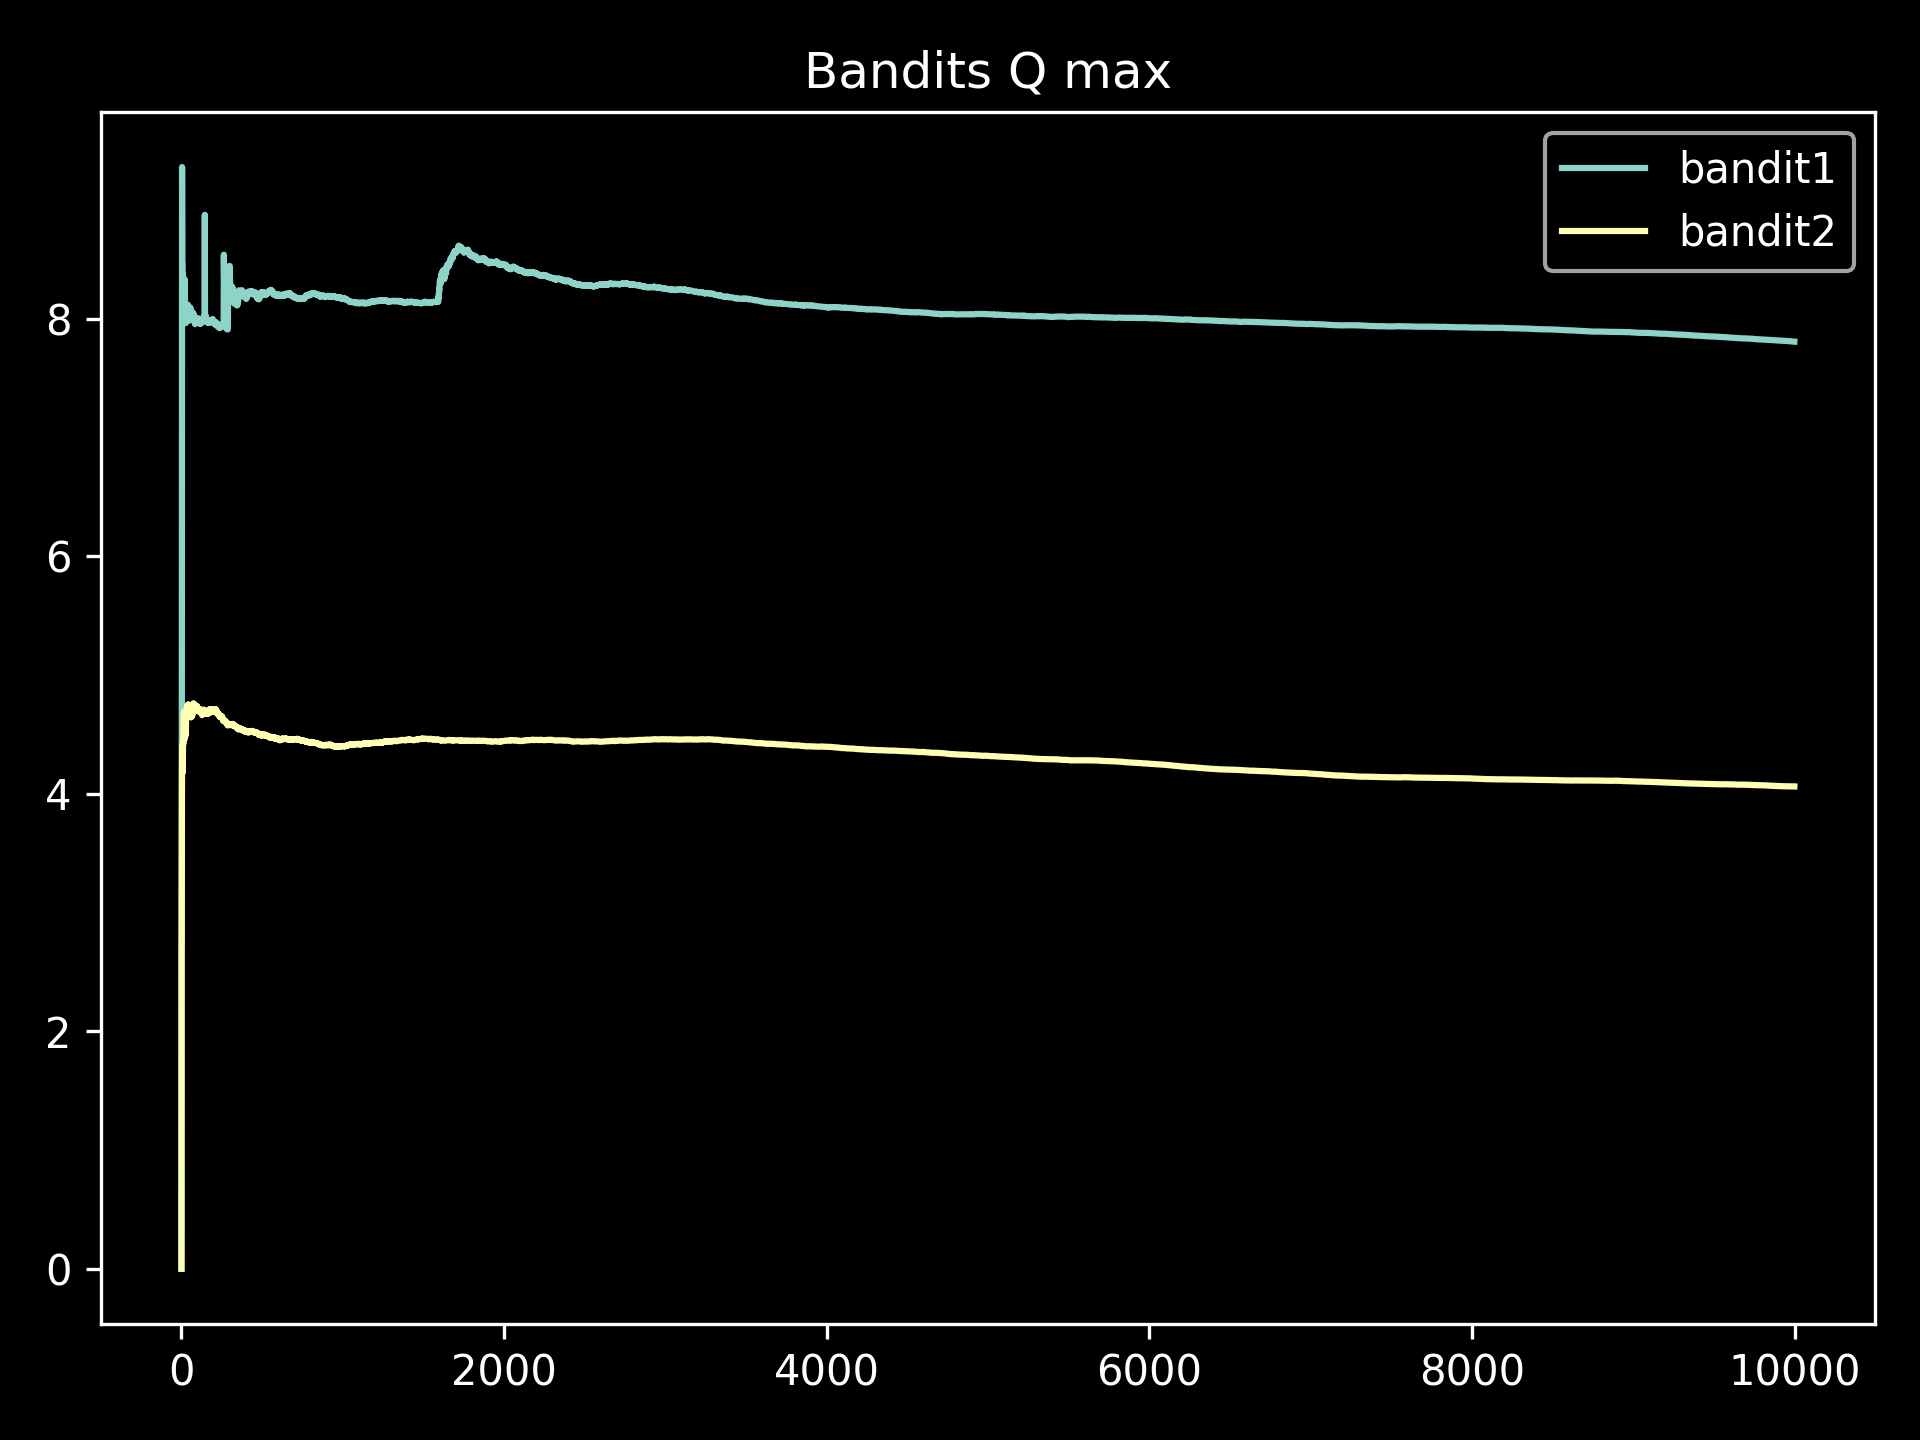
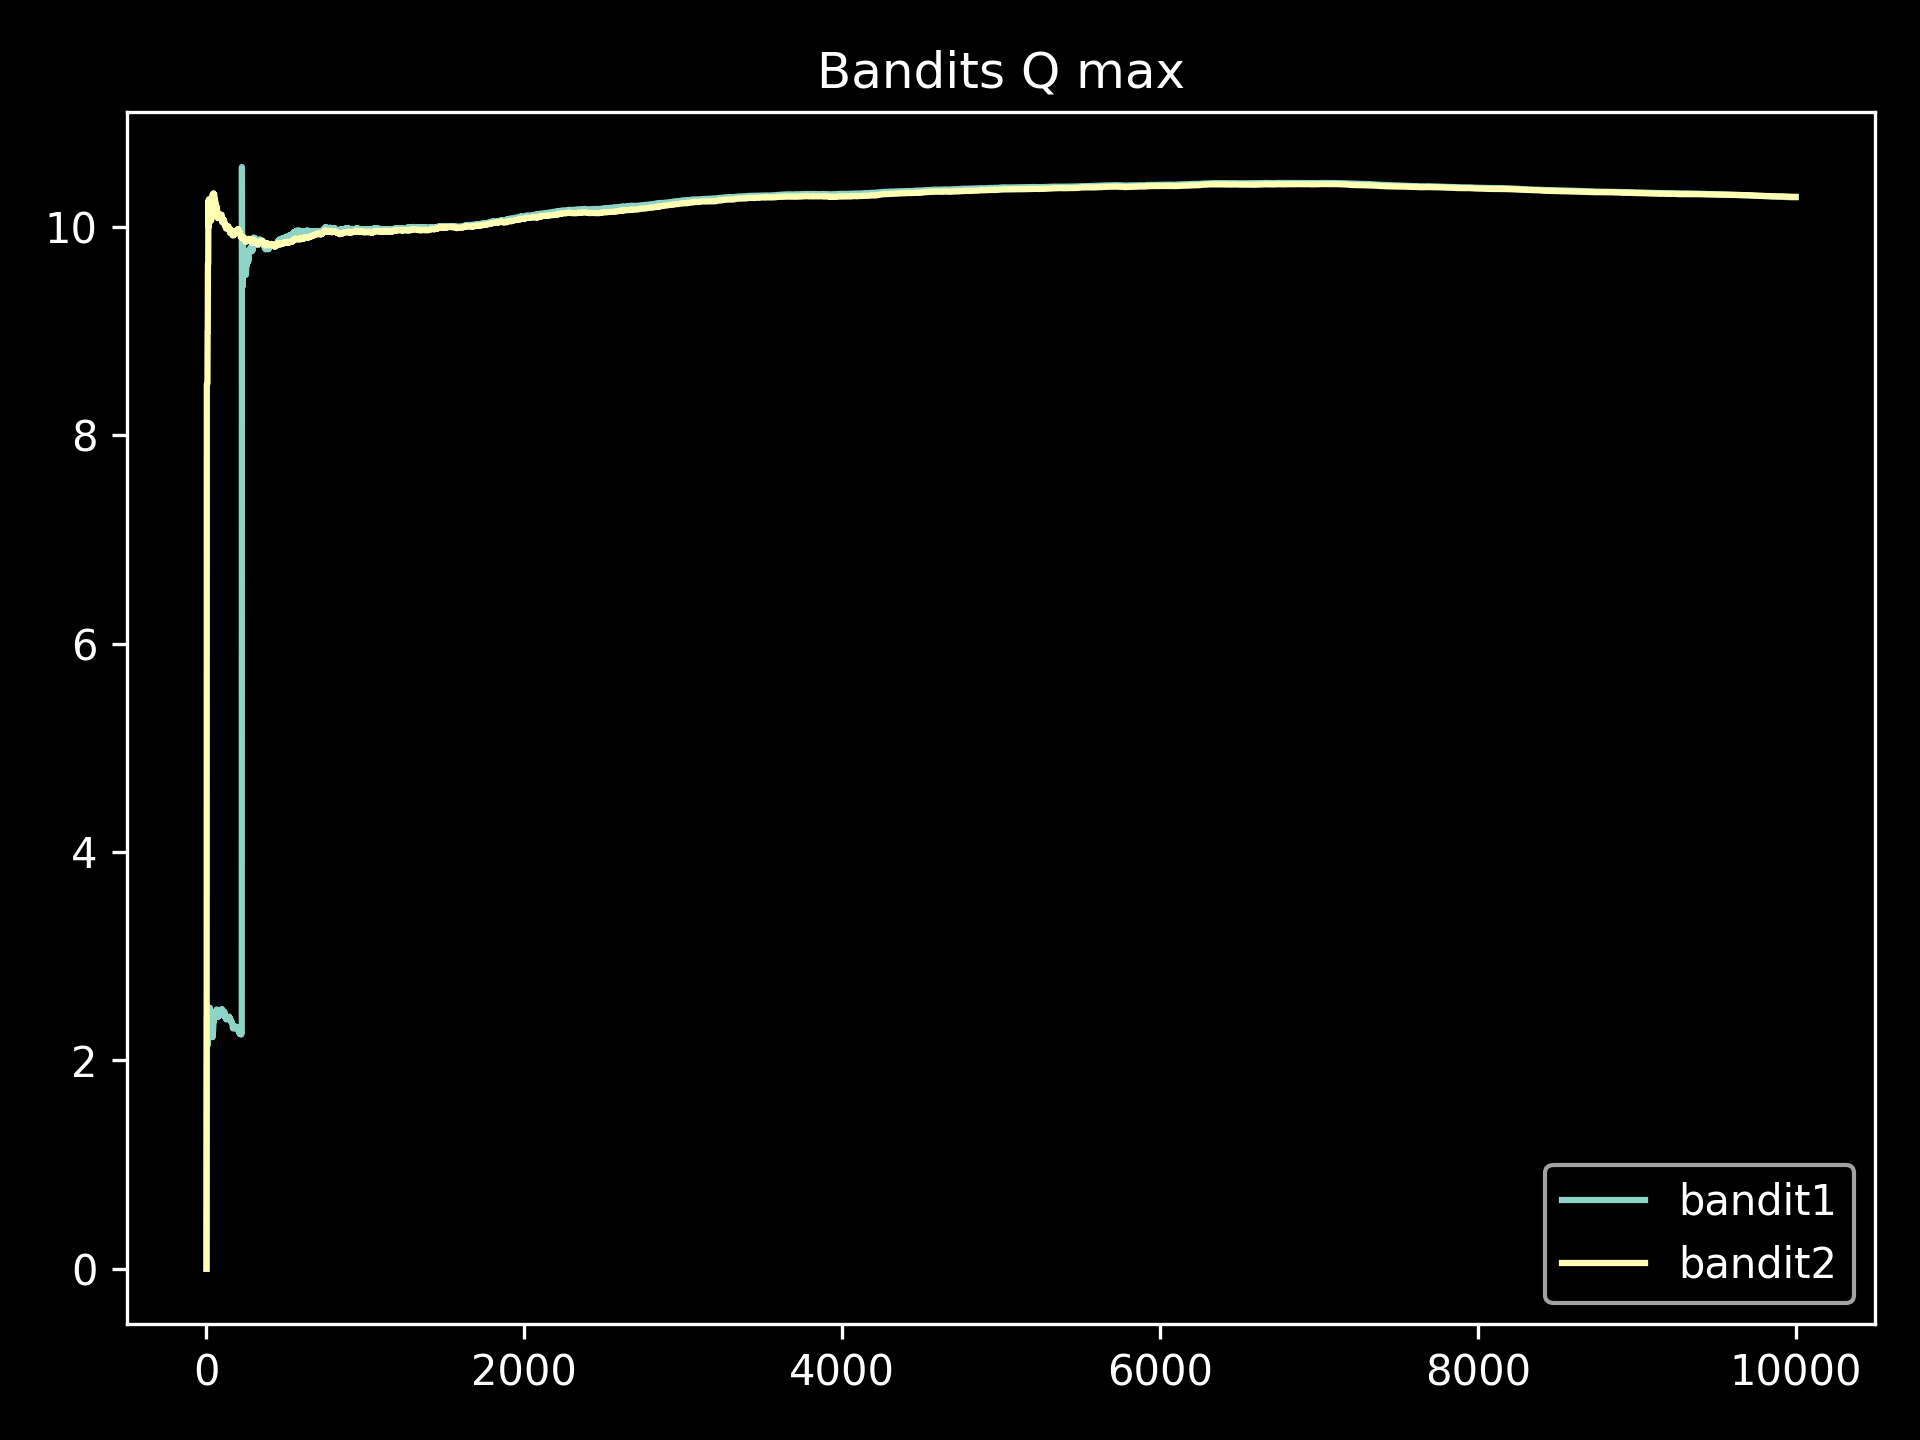
Monumental progress... need to implement constant step-size param math in still

diff --git a/src/CS6900/exercise_2_5.py b/src/CS6900/exercise_2_5.py
@@ -16,14 +16,24 @@ class Bandits:
 
     step = 0 # What time step we are on, this is shared by all instances of Bandits class
 
-    def __init__(self, n_arms, n_steps, epsilon, name):
+    def __init__(self, n_arms, n_steps, n_runs, epsilon, alpha, name):
         self.n_arms = n_arms
         self.n_steps = n_steps
         self.Q = np.zeros((n_arms, n_steps))
         self.N = np.zeros((n_arms, n_steps))
         self.epsilon = epsilon
+        self.alpha = alpha
+
         self.rewards_received = np.zeros(n_steps)
         self.name = name
+
+        # These variables are going to save all the Q values across the number
+        # of runs that we want. We are goind to shove Q into the page n_runs
+        # once a run. Average all these pages together to get average Q and
+        # N.
+        self.Q_global = np.zeros((n_arms,n_steps,n_runs))
+        self.N_global = np.zeros((n_arms,n_steps,n_runs))
+
 
     def sample_average_choose_action(self):
         random_float = np.random.random()
@@ -68,6 +78,28 @@ class Bandits:
             Q_max_arr[i] = np.max(self.Q[:, i])
         return Q_max_arr
 
+    # Plot average Q_max of all the runs!
+    def plot_global_Q_max(self, fig):
+
+
+        Q_global_mean = np.mean(self.Q_global, axis=2)
+        Q_global_max = np.zeros((n_steps))
+
+        for i in range(self.n_steps):
+            Q_global_max[i] = np.max(Q_global_mean[:, i])
+        plt.figure(fig)
+        plt.plot(Q_global_max, label=self.name)
+        plt.title(self.name + "_Q_global_max")
+
+    def get_global_Q_max(self):
+
+
+        Q_global_mean = np.mean(self.Q_global, axis=2)
+        Q_global_max = np.zeros((n_steps))
+
+        for i in range(self.n_steps):
+            Q_global_max[i] = np.max(Q_global_mean[:, i])
+        return Q_global_max
 
 
 # Unused for now
@@ -96,20 +128,34 @@ def get_reward(mu_list, sigma_list):
         reward[i] = np.random.normal(mu_list[i], sigma_list[i], 1)
     return reward
 
-def plot_bandits(list_of_bandits):
-    print("plot_bandits")
-    plt.figure()
-    for i in list_of_bandits:
-        plt.plot(i.get_avg_reward())
-    plt.title("Bandits average reward")
-    modules.easy_plots.save_fig("bandits_avg_reward")
+def plot_globals_bandits(list_of_bandits):
+    
+    # plt.figure()
+    # for i in list_of_bandits:
+    #     Q_global_max = i.get_global_Q_max()
+    #     plt.plot(Q_global_max, label=i.name)
+    # plt.legend()
+    # plt.title("Bandits global Q max")
+    # modules.easy_plots.save_fig("Q_global_max")
 
     plt.figure()
     for i in list_of_bandits:
-        plt.plot(i.get_Q_max(), label=i.name)
+        i.plot_global_Q_max(plt.gcf().number)
     plt.legend()
-    plt.title("Bandits Q max")
-    modules.easy_plots.save_fig("bandits_Q_max")
+    plt.title("Bandits global Q max")
+    modules.easy_plots.save_fig("Q_global_max")
+
+    # for i in list_of_bandits:
+    #     plt.plot(i.get_avg_reward())
+    # plt.title("Bandits average reward")
+    # modules.easy_plots.save_fig("bandits_avg_reward")
+
+    # plt.figure()
+    # for i in list_of_bandits:
+    #     plt.plot(i.get_Q_max(), label=i.name)
+    # plt.legend()
+    # plt.title("Bandits Q max")
+    # modules.easy_plots.save_fig("bandits_Q_max")
 
 """
 We have two RL agents standing in front of several different levers. The
@@ -124,11 +170,14 @@ at every time step.
 # CONSTANTS
 n_arms = 10
 n_steps = 10000
+n_runs = 100
 epsilon = .01
+alpha1 = 0
+alpha2 = .1
 
 # Init bandits
-bandit1 = Bandits(n_arms, n_steps, .1, "bandit1") # Agent 1
-bandit2 = Bandits(n_arms, n_steps, 0, "bandit2") # Agent 2
+bandit1 = Bandits(n_arms, n_steps, n_runs, epsilon, 0, "bandit1") # Agent 1
+bandit2 = Bandits(n_arms, n_steps, n_runs, .1, alpha2, "bandit2") # Agent 2
 
 # Init levers
 lower_mu, upper_mu = -1, 10
@@ -136,45 +185,69 @@ lower_sigma, upper_sigma = 1, 1
 random_mu, random_sigma = 0, .01 # Random walks the lever takes each step
 lever_mu = np.zeros(n_arms) + (np.random.random(n_arms)*(upper_mu-lower_mu)+lower_mu)
 lever_sigma = np.zeros(n_arms) + (np.random.random(n_arms)*(upper_sigma-lower_sigma)+lower_sigma)
-plot_levers(lever_mu, lever_sigma) # Visualize levers at start
+# plot_levers(lever_mu, lever_sigma) # Visualize levers at start
+
+for j in range(n_runs):
+    i = 1
+    print("j: " , j)
+
+    # Reset the levers for the next run...
+    lever_mu = np.zeros(n_arms) + (np.random.random(n_arms)*(upper_mu-lower_mu)+lower_mu)
+    lever_sigma = np.zeros(n_arms) + (np.random.random(n_arms)*(upper_sigma-lower_sigma)+lower_sigma)
 
 
-for i in range(1, n_steps):
+    term2a = np.zeros(n_steps)
+    for i in range(1, n_steps):
+        reward_array = get_reward(lever_mu, lever_sigma) # Same reward this step
 
-    reward_array = get_reward(lever_mu, lever_sigma) # Same reward this step
+        # Sample average
+        B1_A = bandit1.sample_average_choose_action()
+        bandit1.rewards_received[i] = reward_array[B1_A]
+        bandit1.N[:, i] = bandit1.N[:, i-1]
+        bandit1.Q[:, i] = bandit1.Q[:, i-1]
+        bandit1.N[B1_A][i] = bandit1.N[B1_A][i] + 1
+        bandit1.Q[B1_A][i] = bandit1.Q[B1_A][i]+1/bandit1.N[B1_A][i]*(bandit1.rewards_received[i]-bandit1.Q[B1_A][i])
 
-    # Sample average
-    B1_A = bandit1.sample_average_choose_action()
-    bandit1.rewards_received[i] = reward_array[B1_A]
-    bandit1.N[:, i] = bandit1.N[:, i-1]
-    bandit1.Q[:, i] = bandit1.Q[:, i-1]
-    bandit1.N[B1_A][i] = bandit1.N[B1_A][i] + 1
-    bandit1.Q[B1_A][i] = bandit1.Q[B1_A][i]+1/bandit1.N[B1_A][i]*(bandit1.rewards_received[i]-bandit1.Q[B1_A][i])
+        # 
+        B2_A = bandit2.sample_average_choose_action()
+        bandit2.rewards_received[i] = reward_array[B2_A]
+        bandit2.N[:, i] = bandit2.N[:, i-1]
+        bandit2.Q[:, i] = bandit2.Q[:, i-1]
+        bandit2.N[B2_A][i] = bandit2.N[B2_A][i] + 1
 
-    # 
-    B2_A = bandit2.sample_average_choose_action()
-    bandit2.rewards_received[i] = reward_array[B2_A]
-    bandit2.N[:, i] = bandit2.N[:, i-1]
-    bandit2.Q[:, i] = bandit2.Q[:, i-1]
-    bandit2.N[B2_A][i] = bandit2.N[B2_A][i] + 1
-    bandit2.Q[B2_A][i] = bandit2.Q[B2_A][i]+1/bandit2.N[B2_A][i]*(bandit2.rewards_received[i]-bandit2.Q[B2_A][i])
+        # Calculate the new expected reward for bandit 2, constant step-size parameter method.
+        # The n in eq (2.6) in Sutton is the number of times this action has been chosen. So you
+        # are summing over # of pulls, not what step you are on.
 
-    Bandits.step = Bandits.step + 1
-    lever_mu = lever_mu + np.random.normal(random_mu, random_sigma, n_arms)
-    if Bandits.step % int(n_steps/5) == 0:
-        plot_levers(lever_mu, lever_sigma)
+        # This array is what we will sum up. # elements is the same as # times we have pulled the lever
+        to_sum = np.zeros(bandit2.N[B2_A, i])
+        to_sum[0] = (1-bandit2.alpha)**(bandit2.N[B2_A, i]-1)
+        for k in range(1, bandit2.N[B2_A, i]):
+            to_sum[k] 
+        bandit2.Q[B2_A][i] = 
 
 
 
-plot_levers(lever_mu, lever_sigma)
-bandit1.plot_reward()
-bandit1.plot_avg_reward()
-bandit1.plot_Q_max()
-bandit2.plot_reward()
-bandit2.plot_avg_reward()
-bandit2.plot_Q_max()
-plot_bandits([bandit1, bandit2])
+        Bandits.step = Bandits.step + 1
+        lever_mu = lever_mu + np.random.normal(random_mu, random_sigma, n_arms) # Walk levers
+        # if Bandits.step % int(n_steps/5) == 0:
+        #     plot_levers(lever_mu, lever_sigma)
+
+    Bandits.step = 0
+    bandit1.Q_global[:,:,j] = bandit1.Q[:,:] # Save that run
+    bandit2.Q_global[:,:,j] = bandit2.Q[:,:]
+
+
+
+# plot_levers(lever_mu, lever_sigma)
+# bandit1.plot_reward()
+# bandit1.plot_avg_reward()
+# bandit1.plot_Q_max()
+# bandit1.plot_global_Q_max()
+# bandit2.plot_reward()
+# bandit2.plot_avg_reward()
+# bandit2.plot_Q_max()
+plot_globals_bandits([bandit1, bandit2])
 plt.show()
-print(int(n_steps/5))
 # if __name__ == '__main__':
 #     main()

diff --git a/src/CS6900/arr_testing.py b/src/CS6900/arr_testing.py
@@ -1,0 +1,27 @@
+import numpy as np
+
+arr = np.array([
+    [[5, 8, 3], [9, 4, 2]],
+    [[3, 9, 5], [2, 6, 8]]])
+arr1 = np.mean(arr, axis=(0, 1))
+
+arr2 = np.random.random((2,3,4))
+
+print(arr)
+print(arr[0, 1, 1])
+print(arr1)
+print((5+9+3+2)/4)
+print(arr2)
+print(arr2[0,1,1])
+print(arr2[0][1][1])
+
+arr3 = np.ones((10,11,5))
+arr3[0,0,4] = 10
+
+arr4 = np.mean(arr3, axis=2)
+
+arr5 = np.array([1,2,3,4,5])
+arr6 = np.array([6,7,8,9,10])
+
+print(arr4)
+print(arr5*arr6)
